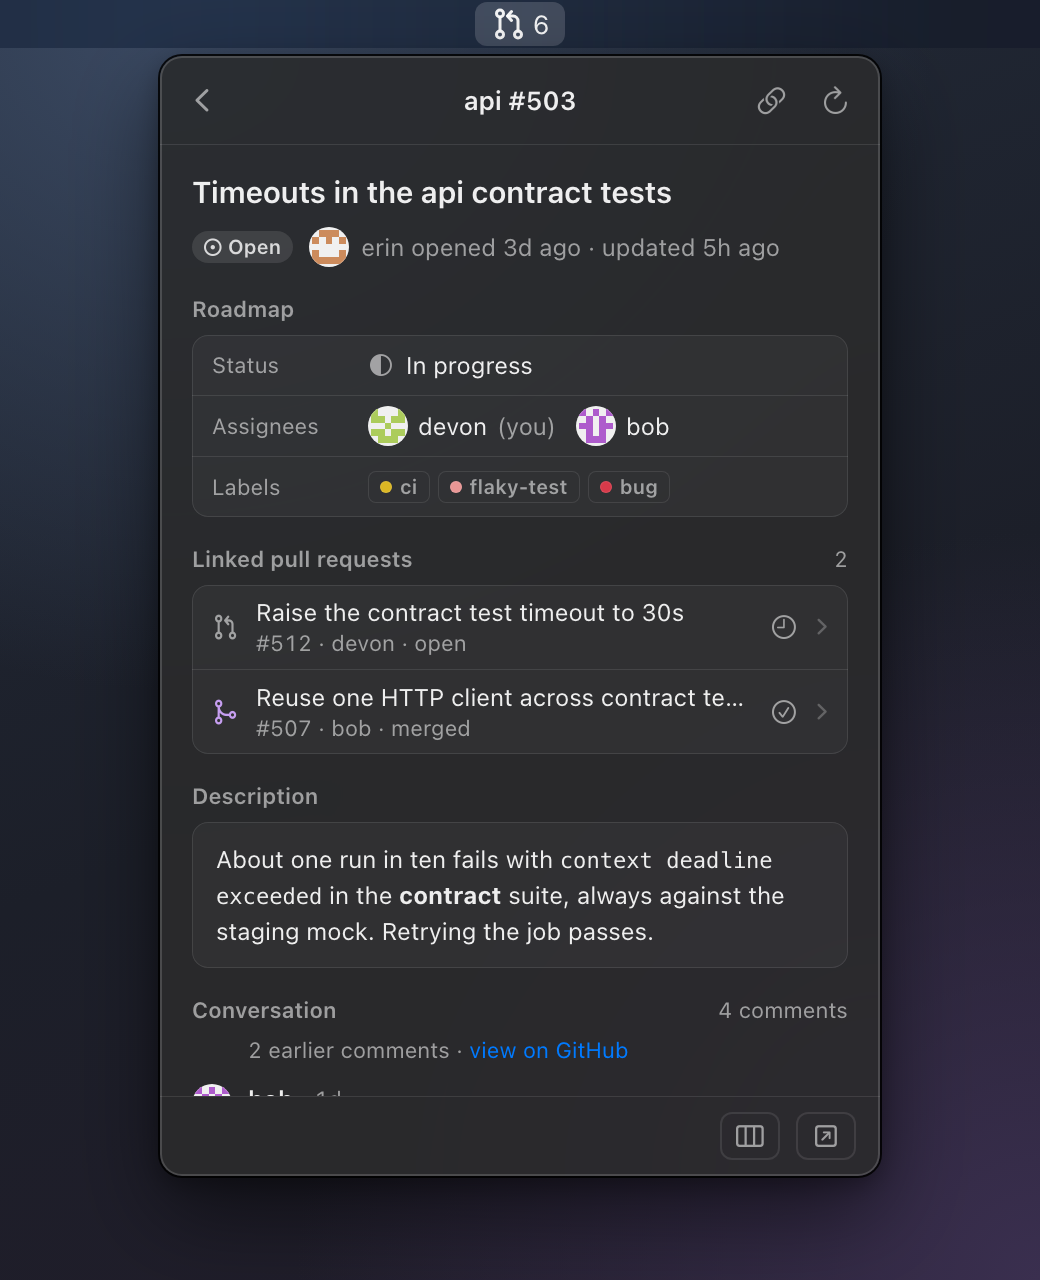
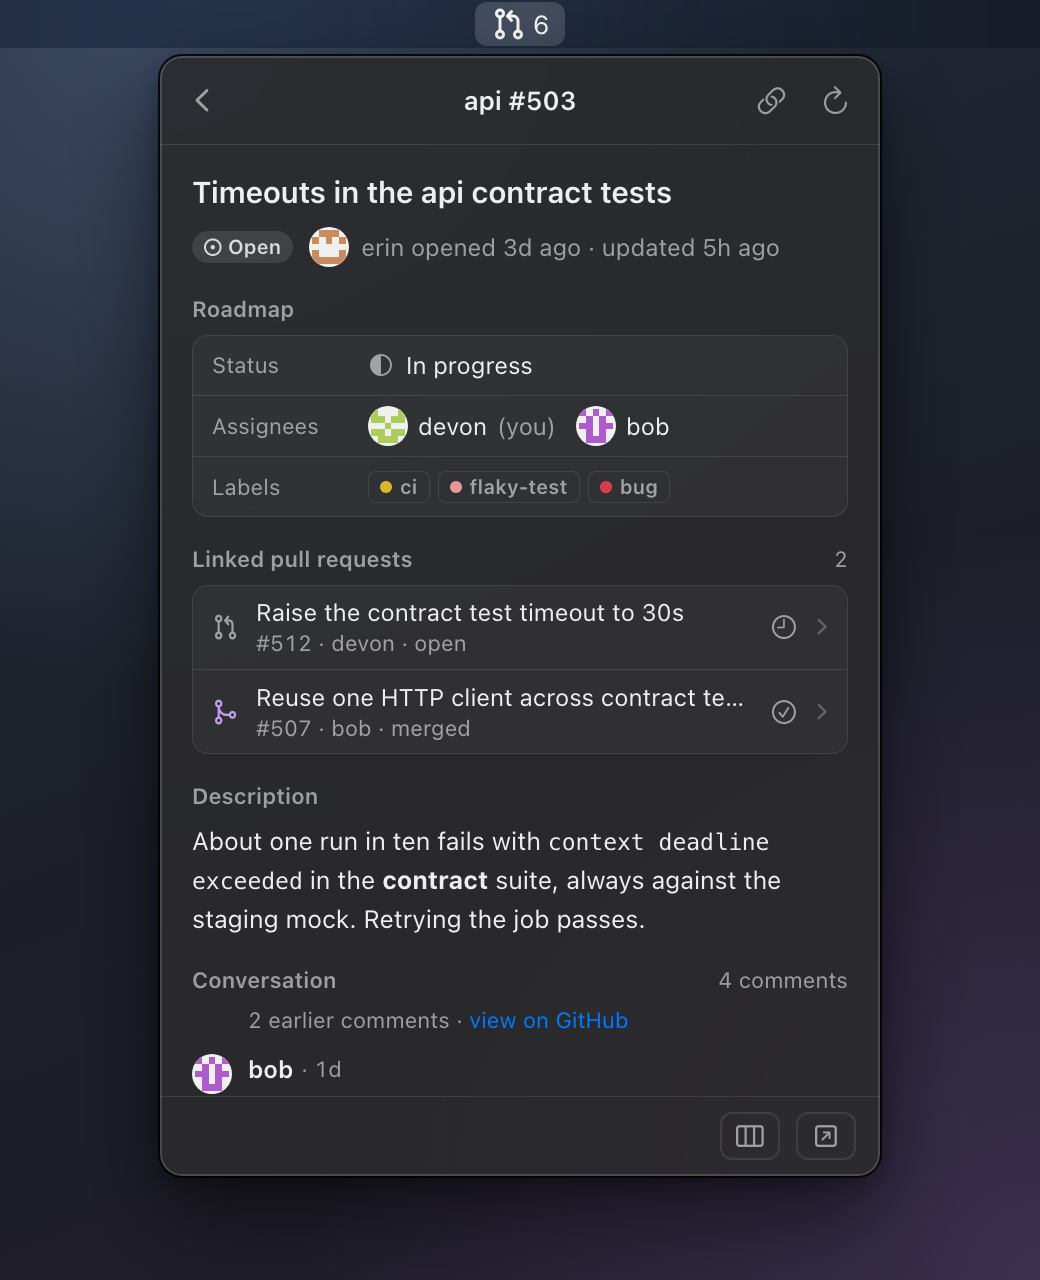
Issue pages use the PR page's description and empty-section style

Changed region(s): [[0.1846, 0.6562, 0.7692, 0.875], [0.4615, 0.7812, 0.6154, 0.8438], [0.7077, 0.75, 0.8, 0.8125]]

diff --git a/PullBull/Detail/PRDetailView.swift b/PullBull/Detail/PRDetailView.swift
@@ -182,9 +182,9 @@ struct PRDetailView: View {
     @ViewBuilder private func sections(_ detail: PRDetail, now: Date) -> some View {
         if pr?.state == .open {
             statusSections(detail)
-            descriptionSection(detail)
+            DescriptionSection(source: detail.body)
         } else {
-            descriptionSection(detail)
+            DescriptionSection(source: detail.body)
             statusSections(detail)
         }
         conversationSection(detail.comments, now: now)
@@ -197,25 +197,6 @@ struct PRDetailView: View {
             reviewersSection(reviews: detail.reviews, pr: pr, detail: detail)
         } else if !detail.reviews.isEmpty || detail.requests?.isEmpty == false {
             reviewersSection(reviews: detail.reviews, pr: nil, detail: detail)
-        }
-    }
-
-    private func descriptionSection(_ detail: PRDetail) -> some View {
-        // Prose straight on the material at the section gutter, not boxed in a card: cards are for structured data.
-        DetailSection(title: "Description") {
-            let body = detail.body.trimmingCharacters(in: .whitespacesAndNewlines)
-            Group {
-                if body.isEmpty {
-                    Text("No description provided.")
-                        .foregroundStyle(.secondary)
-                } else {
-                    DescriptionText(source: body)
-                }
-            }
-            .font(.system(size: 12.5))
-            .lineSpacing(3)
-            .fixedSize(horizontal: false, vertical: true)
-            .frame(maxWidth: .infinity, alignment: .leading)
         }
     }
 
@@ -520,41 +501,6 @@ struct TeamGlyph: View {
 // MARK: - Pieces
 
 /// Long descriptions fold to their first lines so the checks and reviewers stay in reach.
-private struct DescriptionText: View {
-    let source: String
-    @State private var expanded = false
-
-    private static let foldedLines = 10
-    private static let foldedHeight: CGFloat = 170
-    private var isLong: Bool {
-        source.count > 600 || source.split(separator: "\n", omittingEmptySubsequences: false).count > Self.foldedLines
-    }
-    private var folded: Bool { isLong && !expanded }
-
-    var body: some View {
-        VStack(alignment: .leading, spacing: 6) {
-            MarkdownText(source)
-                .textSelection(.enabled)
-                .frame(maxHeight: folded ? Self.foldedHeight : nil, alignment: .top)
-                .clipped()
-                .mask {
-                    if folded {
-                        LinearGradient(
-                            stops: [.init(color: .black, location: 0.75), .init(color: .clear, location: 1)],
-                            startPoint: .top, endPoint: .bottom)
-                    } else {
-                        Color.black
-                    }
-                }
-            if isLong {
-                Button(expanded ? "Show less" : "Show more") { expanded.toggle() }
-                    .buttonStyle(.link)
-                    .font(.system(size: 11, weight: .medium))
-            }
-        }
-    }
-}
-
 /// "Conflicts with main · resolve on GitHub" under the branches: an amber triangle, gray text.
 private struct ConflictLine: View {
     let baseRef: String

diff --git a/PullBull/Detail/IssueDetailView.swift b/PullBull/Detail/IssueDetailView.swift
@@ -41,7 +41,7 @@ struct IssueDetailView: View {
                                 RefreshFailedNote(message: error) { model.reloadIssueDetail() }
                             }
                             linkedPRsSection(detail.linkedPRs)
-                            descriptionSection(detail.body)
+                            DescriptionSection(source: detail.body)
                             conversationSection(detail, now: context.date)
                         } else {
                             placeholder
@@ -209,11 +209,10 @@ struct IssueDetailView: View {
 
     @ViewBuilder private func linkedPRsSection(_ prs: [LinkedPR]) -> some View {
         if prs.isEmpty {
-            Text("No linked pull requests")
-                .font(.system(size: 12))
-                .foregroundStyle(.secondary)
-                .padding(.horizontal, Metrics.detailGutter)
-                .padding(.top, 14)
+            // As the PR page's empty sections: the heading, then the empty line in a card.
+            DetailSection(title: "Linked pull requests") {
+                DetailCard { EmptyLine(text: "No linked pull requests") }
+            }
         } else {
             DetailSection(title: "Linked pull requests", summary: String(prs.count)) {
                 DetailCard {
@@ -222,29 +221,6 @@ struct IssueDetailView: View {
                         LinkedPRLine(pr: pr) { model.openDetail(pr.key) }
                     }
                 }
-            }
-        }
-    }
-
-    private func descriptionSection(_ source: String) -> some View {
-        DetailSection(title: "Description") {
-            DetailCard {
-                let body = source.trimmingCharacters(in: .whitespacesAndNewlines)
-                Group {
-                    if body.isEmpty {
-                        Text("No description provided.")
-                            .foregroundStyle(.secondary)
-                    } else {
-                        MarkdownText(body)
-                            .textSelection(.enabled)
-                    }
-                }
-                .font(.system(size: 12))
-                .lineSpacing(2)
-                .fixedSize(horizontal: false, vertical: true)
-                .frame(maxWidth: .infinity, alignment: .leading)
-                .padding(.horizontal, 12)
-                .padding(.vertical, 10)
             }
         }
     }

diff --git a/PullBull/Detail/DetailComponents.swift b/PullBull/Detail/DetailComponents.swift
@@ -423,3 +423,62 @@ struct ConversationSection: View {
         }
     }
 }
+
+/// A PR or issue page's Description: prose straight on the material at the section gutter, not boxed in a
+/// card (cards are for structured data), folded when long. One view for both pages.
+struct DescriptionSection: View {
+    let source: String
+
+    var body: some View {
+        DetailSection(title: "Description") {
+            let body = source.trimmingCharacters(in: .whitespacesAndNewlines)
+            Group {
+                if body.isEmpty {
+                    Text("No description provided.")
+                        .foregroundStyle(.secondary)
+                } else {
+                    DescriptionText(source: body)
+                }
+            }
+            .font(.system(size: 12.5))
+            .lineSpacing(3)
+            .fixedSize(horizontal: false, vertical: true)
+            .frame(maxWidth: .infinity, alignment: .leading)
+        }
+    }
+}
+
+private struct DescriptionText: View {
+    let source: String
+    @State private var expanded = false
+
+    private static let foldedLines = 10
+    private static let foldedHeight: CGFloat = 170
+    private var isLong: Bool {
+        source.count > 600 || source.split(separator: "\n", omittingEmptySubsequences: false).count > Self.foldedLines
+    }
+    private var folded: Bool { isLong && !expanded }
+
+    var body: some View {
+        VStack(alignment: .leading, spacing: 6) {
+            MarkdownText(source)
+                .textSelection(.enabled)
+                .frame(maxHeight: folded ? Self.foldedHeight : nil, alignment: .top)
+                .clipped()
+                .mask {
+                    if folded {
+                        LinearGradient(
+                            stops: [.init(color: .black, location: 0.75), .init(color: .clear, location: 1)],
+                            startPoint: .top, endPoint: .bottom)
+                    } else {
+                        Color.black
+                    }
+                }
+            if isLong {
+                Button(expanded ? "Show less" : "Show more") { expanded.toggle() }
+                    .buttonStyle(.link)
+                    .font(.system(size: 11, weight: .medium))
+            }
+        }
+    }
+}

diff --git a/docs/media/src/detail.js b/docs/media/src/detail.js
@@ -226,7 +226,8 @@
     const labels = cardRow("Labels", `<span class="flow" style="gap:4px">${is.labels.map((l) => P.labelChip(l.name, l.color, scheme)).join("")}</span>`);
     const board = section(d.boardTitle, null, card([statusRow, assignees, labels]));
     const linked = section("Linked pull requests", String(is.linked.length), card(is.linked.map(linkedPRLine)));
-    const description = section("Description", null, card([`<div class="issue-description">${markdown(is.body)}</div>`]));
+    // The same unboxed description as a PR page (DescriptionSection).
+    const description = section("Description", null, `<div class="description">${markdown(is.body)}</div>`);
     const conversation = conversationSection(is.lastComments, is.commentTotal, is.commentTotal - is.lastComments.length);
     const pillHtml = pill("Open", { symbol: "pullbull.issue", fg: "var(--pill-text)", fill: "var(--strong-fill)" });
     const body = summaryBlock(is.title, pillHtml, is.author, is.opened) + board + linked + description + conversation;
